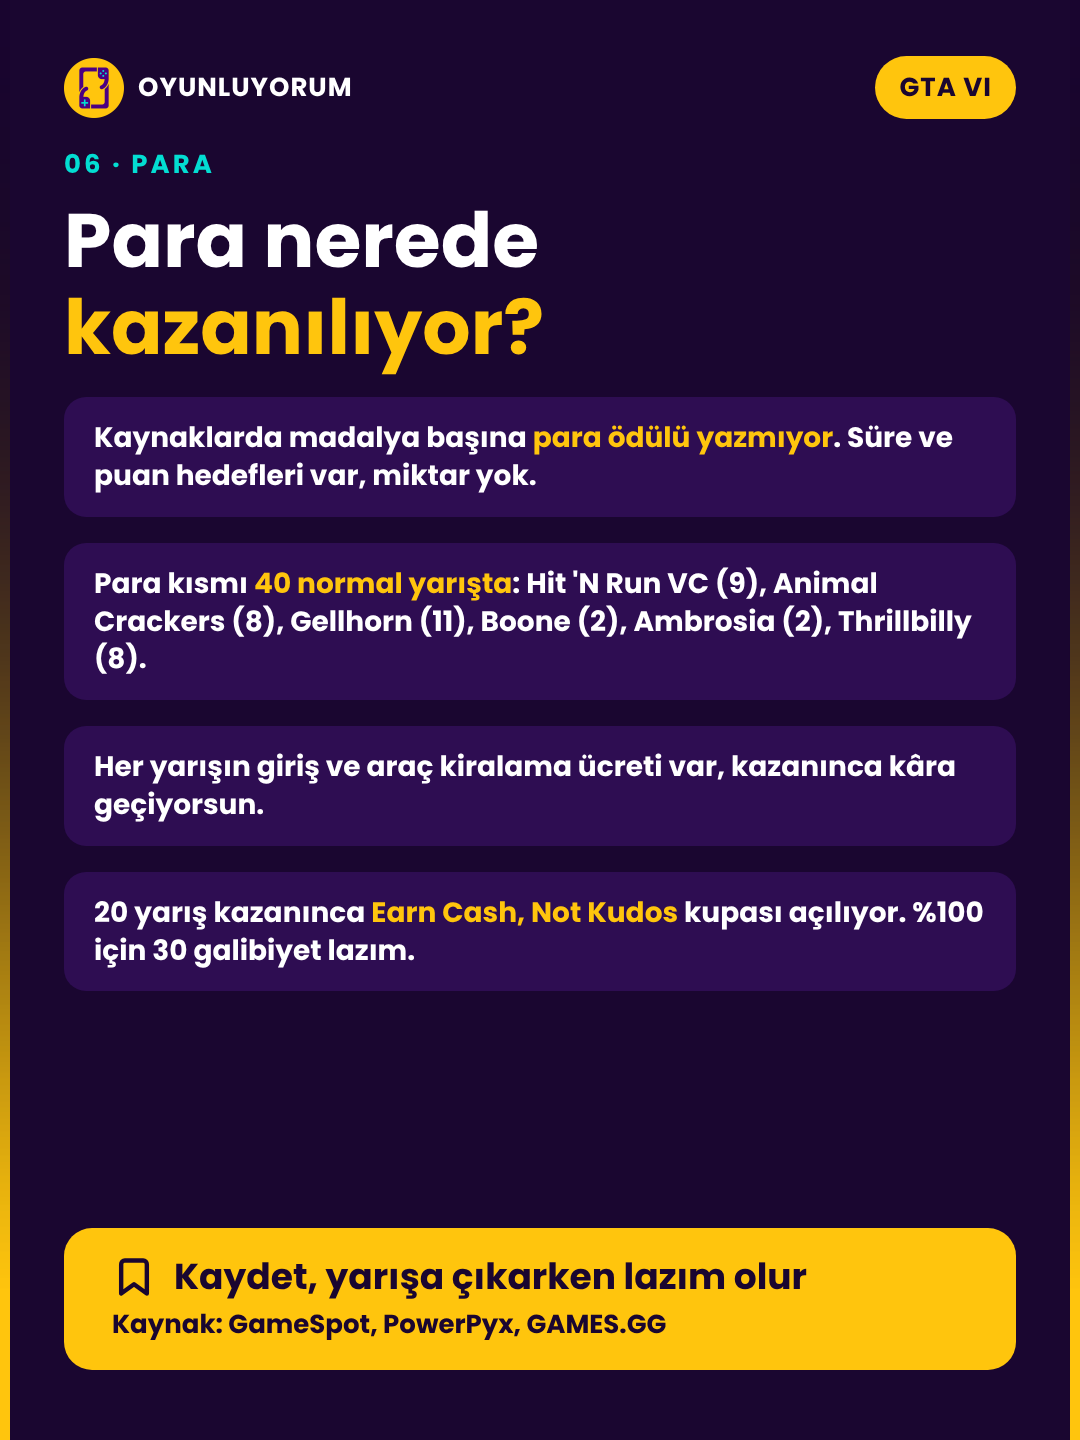
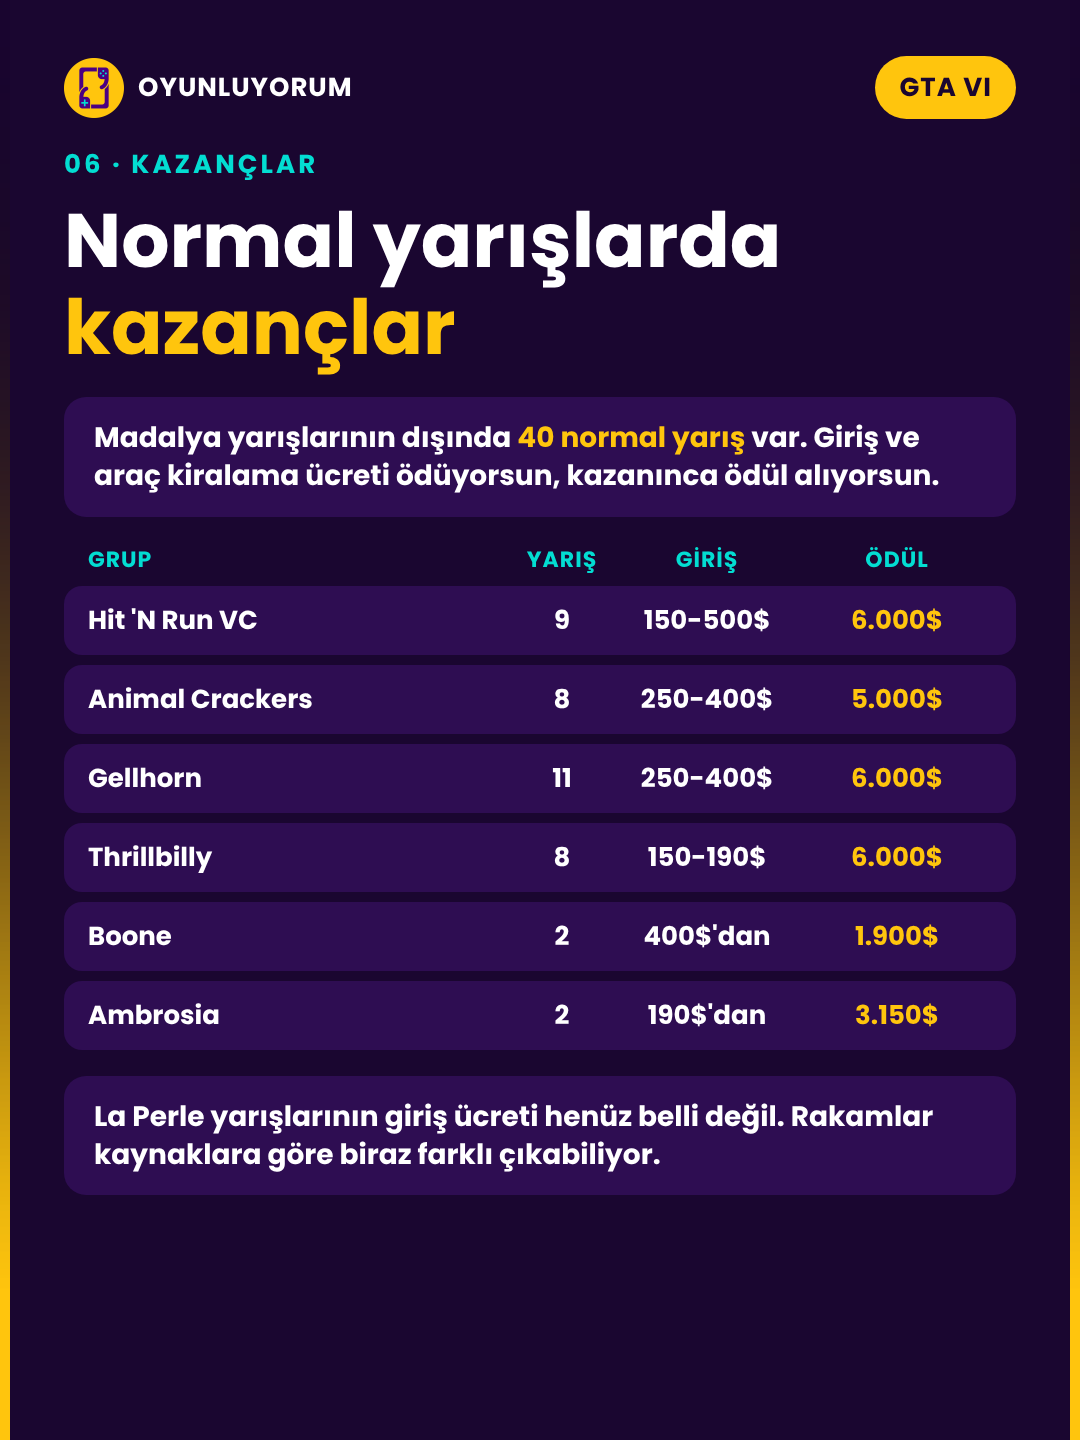
GTA 6 yarış karuseli: kazançlar ve açılma slaytları eklendi (9 slayt)
Claude-Session: https://claude.ai/code/session_01Cfy9VgEXWVL5ta7MT2PpLs

diff --git a/posts/2026-11-27-gta6-yaris-pistleri/aciklama.md b/posts/2026-11-27-gta6-yaris-pistleri/aciklama.md
@@ -1,12 +1,12 @@
-# GTA 6 yarış rehberi: yerler, madalya süreleri, para (karusel, 7 slayt)
+# GTA 6 yarış rehberi: yerler, madalya süreleri, para (karusel, 9 slayt)
 
 Durum: paylaşılmadı
-Kaynaklar: GameSpot (yerler), GAMES.GG (13 meydan okuma süre/puan hedefleri, Boone 400$ kira, Gellhorn giriş turu 1:00), PowerPyx (40 normal yarış, giriş ve kiralama ücreti, kupa)
-Not: Hiçbir kaynak madalya başına para ödülü vermiyor, slayt 7 bunu açıkça söylüyor. Konum tarifleri kaynaklar arasında küçük farklılık gösteriyor, ortak olanlar yazıldı.
+Kaynaklar: GameSpot (yerler), GAMES.GG (13 meydan okuma süre/puan hedefleri, Gellhorn giriş turu 1:00), PowerPyx (40 normal yarış, kupa), GTA.Guide (grup bazlı giriş ve en yüksek ödül), CutsceneWire (tek tek yarış ödülleri, tur sayısı, açılma yöntemleri)
+Not: Madalya (13 meydan okuma) için para ödülü yok, kazançlar 40 normal yarışta (slayt 7-8). CutsceneWire tablosunda 39 satır var, diğer kaynaklar 40 diyor. Giriş ücretleri kaynaklar arasında biraz farklı, slaytta GTA.Guide aralıkları kullanıldı.
 
 ## Açıklama
 GTA 6'da 13 yarış meydan okuması var ve %100 için 10 altın madalya yetiyor 🏆
-Gellhorn, Thrillbilly Mud Club, Boone, Ambrosia, Kalaga, Hamlet ve Waning Sands: hepsinin altın süre ve puan hedefleri slaytlarda.
+Altın süre ve puan hedefleri, 40 normal yarışın giriş ücretleri ve 6.000$’a kadar çıkan ödüller slaytlarda.
 Sen hangisinde altın aldın? 👇
 Bunu yarış seven arkadaşına gönder.
 
